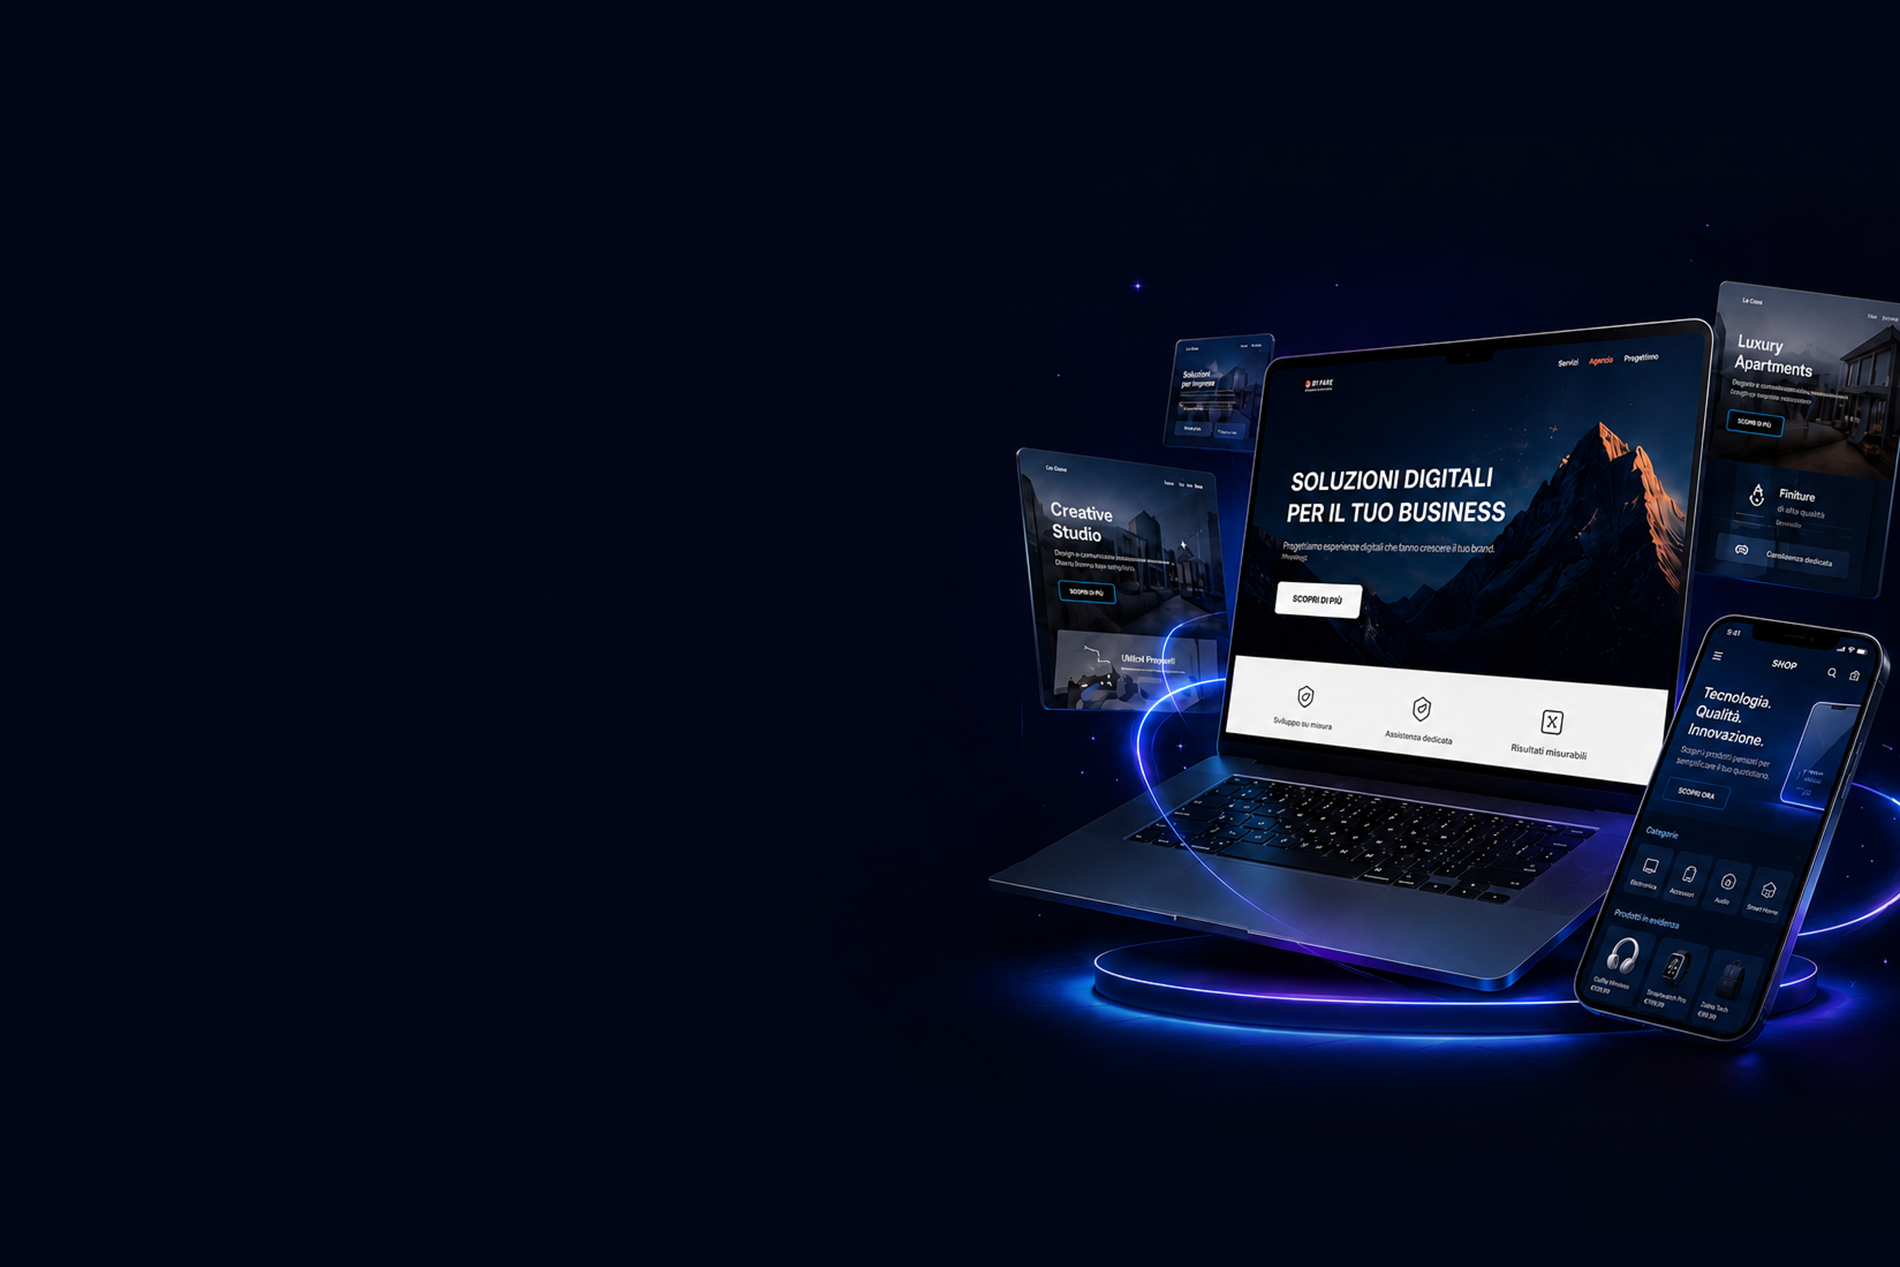
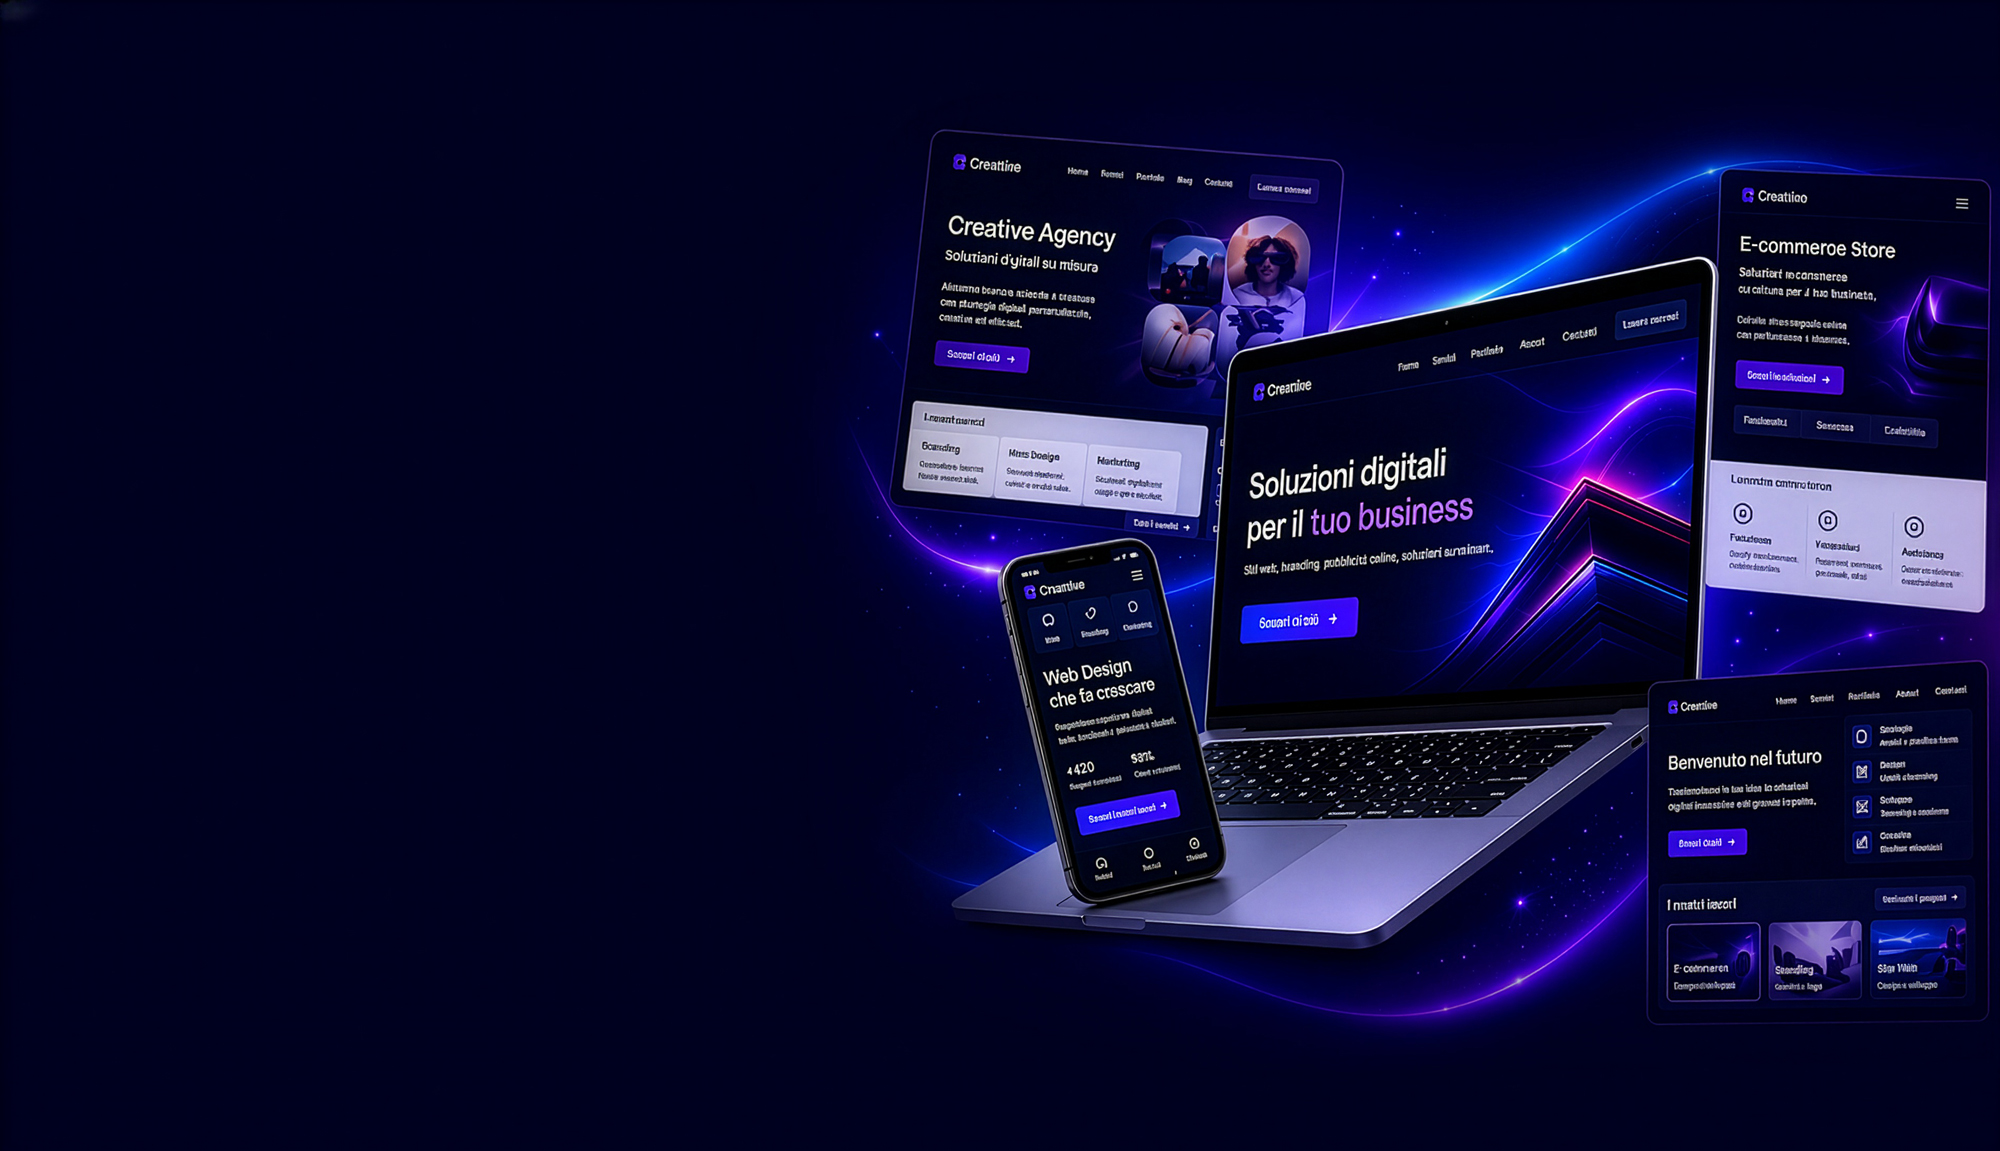
sesto commit

Changed region(s): [[0.4037, 0.0912, 1.0, 0.9123], [0.4658, 0.1216, 0.5589, 0.152]]

diff --git a/style.css b/style.css
@@ -12,20 +12,15 @@
    MENU
 ========================= */
 
-.menu {
-    background: linear-gradient(
-        to bottom,
-        rgba(0, 0, 0, 1),
-        rgba(0, 0, 0, 0)
-    );
-}
+
 
 /* =========================
    BACKGROUND GENERICO
 ========================= */
 
 .bg_personal {
-    background-color: #000312;
+    background: #000513;
+    background: linear-gradient(90deg, rgba(0, 5, 19, 1) 0%, rgba(16, 8, 55, 1) 99%);
 }
 
 /* =========================
@@ -74,7 +69,7 @@
 ========================= */
 
 .bg2 {
-    background-image: url(./asset/img/developer2.jpg);
+    background-image: url(./asset/img/developer.jpeg);
     background-size: cover;
     background-position: center;
     background-repeat: no-repeat;

diff --git a/classes/Booking.php b/classes/Booking.php
@@ -1,71 +1,43 @@
 <?php
 
-    require_once __DIR__ . '/Db.php';
+require_once __DIR__ . '/Db.php';
 
+class Booking
+{
+    public const AVAILABLE_TIMES = [
+        '09:00',
+        '10:00',
+        '11:00',
+        '12:00',
+        '14:00',
+        '15:00',
+        '16:00',
+        '17:00',
+    ];
 
-    class Booking 
+    public static function findById(int $id): ?array
     {
-        public const AVAILABLE_TIMES = [
-                                        '09:00', 
-                                        '10:00',
-                                        '11:00',
-                                        '12:00',
-                                        '14:00',
-                                        '15:00',
-                                        '16:00',
-                                        '17:00',
-                                        ];
+        $pdo = Db::connect();
 
+        $stmt = $pdo->prepare(
+            'SELECT b.id,
+                    b.user_id,
+                    b.scheduled_date,
+                    b.scheduled_time,
+                    b.status,
+                    b.notes,
+                    b.created_at,
+                    u.name AS user_name,
+                    u.email AS user_email
+             FROM bookings b
+             JOIN users u ON b.user_id = u.id
+             WHERE b.id = :id'
+        );
 
-        
-        
-        
-        public static function findById(int $id): ?array
-        {
+        $stmt->execute([':id' => $id]);
 
-            //connettiamo al db
-            $pdo = Db::connect();
-            
-            //query con JOIN : prendiamo anche il nome ed email del cliente
-            $stmt = $pdo->prepare(
+        $booking = $stmt->fetch(PDO::FETCH_ASSOC);
 
-                    'SELECT b.id, b.user_id,b.product_id, b.scheduled_date, b.scheduled_time, b.notes, b.created_at, b.updated_at,
-                    
-                            u.name AS user_name, u.email AS user_email 
-                            
-                    FROM bookings b
-                    JOIN users u ON b.user_id = u.id
-                    WHERE b.id = :id'
-
-
-
-            );
-            $stmt->execute([':id' => $id]);
-            $booking = $stmt->fetch();
-
-            return $booking ?: null;
-
-
-        } 
-
-
-
-
-
-
-
-
-
-
-
-
+        return $booking ?: null;
     }
-
-
-
-
-
-
-
-
-?>
+}

diff --git a/bookings.php b/bookings.php
@@ -1,0 +1,71 @@
+<?php
+
+require_once __DIR__ . '/helpers/auth.php';
+require_once __DIR__ . '/classes/User.php';
+require_once __DIR__ . '/classes/Booking.php';
+
+$user = currentUser();
+
+$errors = [];
+$success = '';
+
+/*
+|--------------------------------------------------------------------------
+| LOAD SINGLE BOOKING (fallback sicuro)
+|--------------------------------------------------------------------------
+| Non avendo findAll() o findByUser(), non possiamo caricare liste.
+| Quindi per ora lasciamo vuoto o logica futura.
+*/
+$bookings = [];
+
+/*
+|--------------------------------------------------------------------------
+| RENDER
+|--------------------------------------------------------------------------
+*/
+include 'header_dashboard.php';
+?>
+
+<main class="dashboard-content">
+
+    <header class="dashboard-header mb-4">
+        <h2 class="text-warning fw-bold mb-1">Booking Management</h2>
+        <p class="text-white-50 mb-0">Manage your reservations.</p>
+    </header>
+
+    <?php if ($errors): ?>
+        <div class="alert alert-danger">
+            <?php foreach ($errors as $e): ?>
+                <div><?= htmlspecialchars($e) ?></div>
+            <?php endforeach; ?>
+        </div>
+    <?php endif; ?>
+
+    <?php if ($success): ?>
+        <div class="alert alert-success">
+            <?= htmlspecialchars($success) ?>
+        </div>
+    <?php endif; ?>
+
+    <div class="row g-4">
+
+        <div class="col-12">
+
+            <div class="dashboard-panel">
+
+                <h4 class="text-warning fw-bold mb-3">
+                    <i class="fas fa-calendar"></i> Bookings
+                </h4>
+
+                <div class="alert alert-secondary">
+                    Nessun metodo disponibile per caricare la lista prenotazioni.
+                    (Manca findAll o findByUser nel model Booking)
+                </div>
+
+            </div>
+
+        </div>
+
+    </div>
+
+</main>

diff --git a/dashboard.php b/dashboard.php
@@ -245,12 +245,7 @@ include 'header_dashboard.php';
             <!-- BOOKING -->
             <section id="booking" class="d-none">
 
-                <h2>Booking</h2>
-
-                <p class="text-muted">
-                    Streamline your workflow with our intuitive dashboard.
-                </p>
-
+                <?php include 'bookings.php'; ?>
             </section>
 
         </div>

diff --git a/index.php b/index.php
@@ -437,8 +437,8 @@
 
     <!--servizio su misura-->
     <div style="margin-top:80px;">
-        <div class="container-fluid">
-            <div class="row">
+        <div class="container-fluid ">
+            <div class="row bg2">
                 <!-- MOBILE 100% / DESKTOP 50% -->
                 <div class="col-12 col-lg-6">
                      
@@ -472,7 +472,7 @@
 
                 <!--seconda-->
 
-                <div class="col-12 col-lg-6 bg2">
+                <div class="col-12 col-lg-6 ">
 
                 
                 </div>